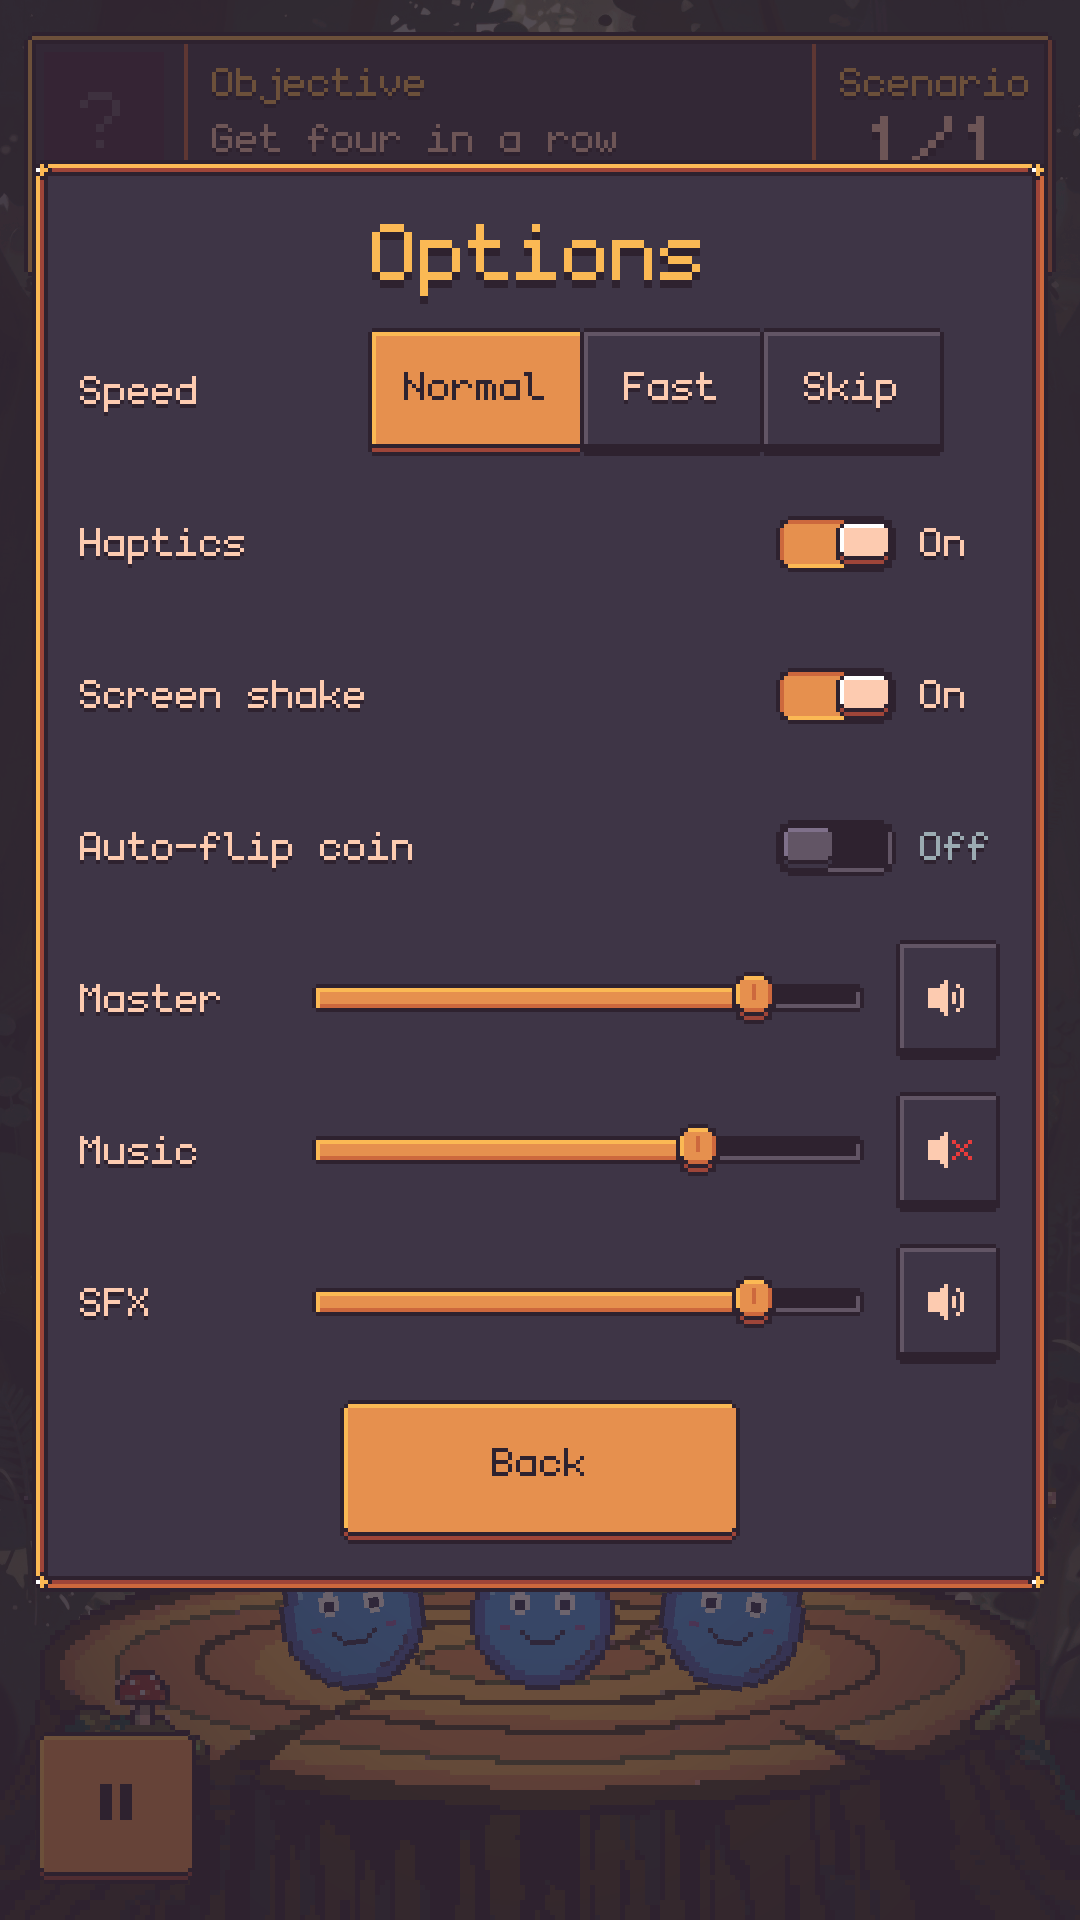
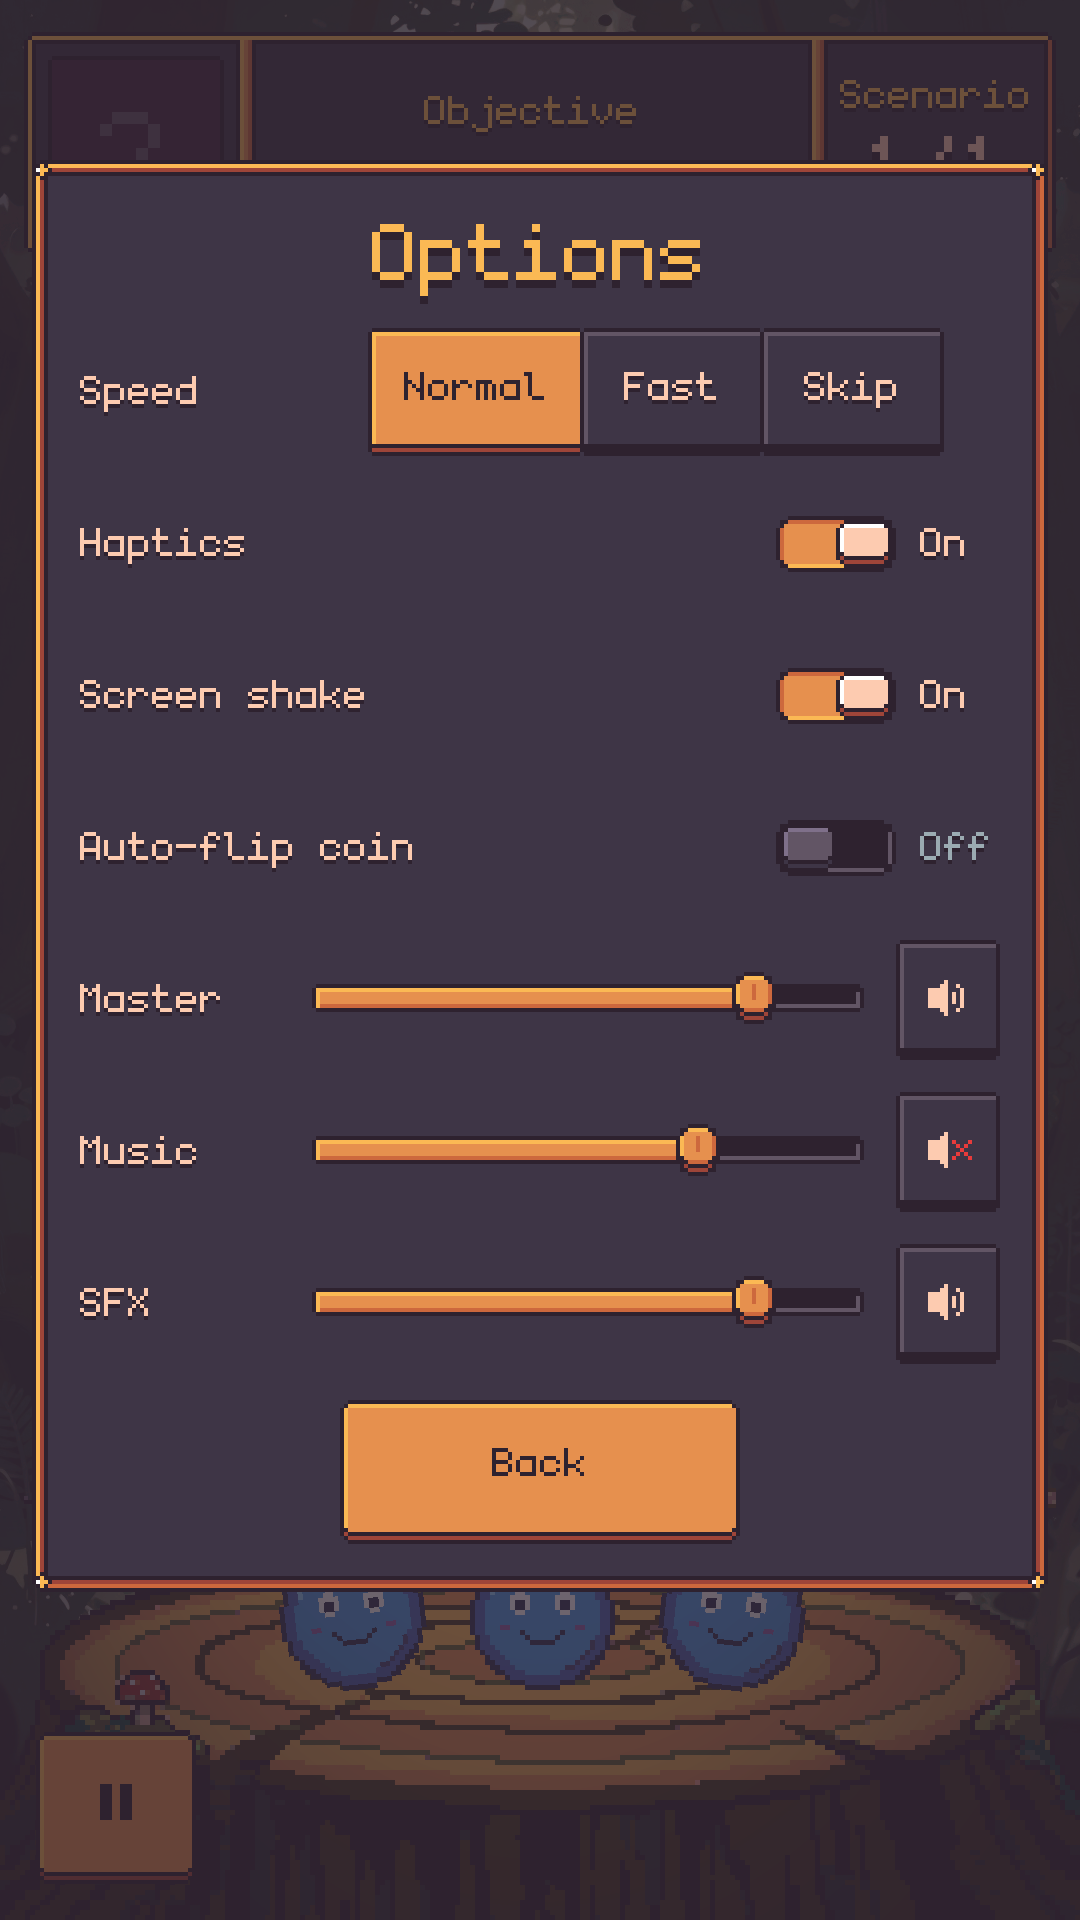
Art B: review round 2 - bigger portrait, centred objective, thick HUD bars, Forest timer emblem

diff --git a/art/ui/make_ui_mocks.py b/art/ui/make_ui_mocks.py
@@ -30,7 +30,7 @@ UI = {name: Image.open(f"assets/ui/{name}.png").convert("RGBA") for name in (
     "button_disabled", "toast", "banner", "slider_track", "slider_fill", "slider_knob",
     "toggle_on", "toggle_off", "segment_normal", "segment_selected", "icon_pause",
     "icon_speaker", "icon_speaker_muted", "logo", "fuse_rope", "fuse_burnt", "fuse_spark",
-    "toast_error", "icon_error", "divider_h", "divider_v")}
+    "toast_error", "icon_error", "divider_h", "divider_v", "timer_emblem_forest")}
 SCRIM = (*kit.INK0[:3], 178)
 
 
@@ -162,33 +162,42 @@ def draw_fuse(s, x, y, w, burnt):
 
 
 def hud(s, top=8, timer="24", timer_red=False):
-    """One HUD block with sections (Sean, 2026-11-20 review): portrait | objective |
-    scenario on top, the turn timer centred in the lower section. Pause is bottom left."""
-    x0, w = 6, GW - 12
-    top_h, low_h = 40, 22
-    s.panel("panel", x0, top, w, top_h + low_h)
+    """One HUD block with thick section bars (Sean, 2026-11-20 round 2): big portrait |
+    objective (centred) | scenario. The turn timer sits in a round biome emblem just
+    below the block. Pause is bottom left."""
+    x0, w, h = 6, GW - 12, 56
+    s.panel("panel", x0, top, w, h)
     # Portrait section (Strange Man head crop comes in Art pass C).
-    s.put(Image.new("RGBA", (30, 30), hexc("45293f")), x0 + 5, top + 5)
-    s.text("?", x0 + 20, top + 7, kit.INK2, 2, centre=True, shadow=False)
-    vx1, vx2 = x0 + 39, x0 + w - 62
+    ps = 44
+    s.put(kit.frame(ps, ps, [kit.INK0], hexc("45293f"), radius=1), x0 + 6, top + 6)
+    s.text("?", x0 + 6 + ps // 2, top + 6 + 2, kit.INK2, 3, centre=True, shadow=False)
+    vx1, vx2 = x0 + 6 + ps + 3, x0 + w - 62
     for vx in (vx1, vx2):
-        s.put(UI["divider_v"].resize((3, top_h - 6)), vx, top + 3)
-    s.put(UI["divider_h"].resize((w - 6, 3)), x0 + 3, top + top_h - 1)
-    # Objective section.
-    s.text("Objective", vx1 + 8, top + 5, kit.GOLD_HI)
-    s.text("Get four in a row", vx1 + 8, top + 19, kit.CREAM)
+        s.put(UI["divider_v"].resize((5, h - 4)), vx, top + 2)
+    # Objective section, centred.
+    ocx = (vx1 + 5 + vx2) // 2
+    s.text("Objective", ocx, top + 12, kit.GOLD_HI, centre=True)
+    s.text("Get four in a row", ocx, top + 28, kit.CREAM, centre=True)
     # Scenario section (where Pause was).
-    cx = (vx2 + 3 + x0 + w) // 2
-    s.text("Scenario", cx, top + 5, kit.GOLD_HI, centre=True)
-    s.text("1/1", cx, top + 13, kit.CREAM, 2, centre=True)
-    # Lower section: the turn timer, centred ("—" on the opponent's turn).
-    s.text(timer, GW // 2, top + top_h - 4, hexc("e83b3b") if timer_red else kit.CREAM, 2, centre=True)
+    cx = (vx2 + 5 + x0 + w - 3) // 2
+    s.text("Scenario", cx, top + 8, kit.GOLD_HI, centre=True)
+    s.text("1/1", cx, top + 18, kit.CREAM, 2, centre=True)
+    # Turn timer: round Forest emblem just below the HUD ("—" on the opponent's turn).
+    em = UI["timer_emblem_forest"]
+    ex, ey = (GW - em.width) // 2, top + h + 1
+    s.put(em, ex, ey)
+    colour = hexc("e83b3b") if timer_red else kit.CREAM
+    tw = int(FONT.getlength(timer)) * 2
+    tx, ty = GW // 2 - tw // 2, ey + em.height // 2 - 19
+    for dx, dy in ((-1, 0), (1, 0), (0, -1), (0, 1), (-1, -1), (1, -1), (-1, 1), (1, 1), (0, 2)):
+        s.put(text_img(timer, kit.INK0, 2), tx + dx, ty + dy)
+    s.put(text_img(timer, colour, 2), tx, ty)
     # Pause button, bottom left of the safe area (36 game px = 96 px at the 720 base).
     s.panel("button_normal", 9, GH - 9 - 38, 40, 38)
     s.put(UI["icon_pause"], 9 + 16, GH - 9 - 38 + 13)
 
 
-def error_toast(s, msg, y=100):
+def error_toast(s, msg, y=114):
     """Error toast: red pill + warning badge, above the aim lane."""
     w = int(FONT.getlength(msg)) + 32
     x = (GW - w) // 2

diff --git a/art/ui/make_ui_kit.py b/art/ui/make_ui_kit.py
@@ -13,7 +13,8 @@ Outputs in assets/ui/ (9-slice margins = the `MARGINS` table below, in game px):
   dialogue_arrow.png   blinking "next page" triangle
   button_normal.png    honey button with a 2 px lip; _pressed sinks 2 px; _disabled greyed
   toast.png            toast pill; toast_error.png + icon_error.png for errors (Column full, Hand full)
-  divider_h.png / divider_v.png  section lines inside the one-block HUD
+  divider_h.png / divider_v.png  thick section bars inside the one-block HUD
+  timer_emblem_forest.png  round biome emblem under the HUD that holds the turn timer
   banner.png           end-overlay frame (double border, gold studs)
   slider_track.png     slider groove; slider_fill.png the filled part; slider_knob.png
   toggle_on.png / toggle_off.png
@@ -202,12 +203,64 @@ def icon_error():
 
 
 def divider_h():
-    """Tileable horizontal section divider for the one-block HUD (4x3)."""
-    return bitmap(["....", "####", "...."], {"#": GOLD_LO})
+    """Tileable horizontal section bar for the one-block HUD (4x5): as thick as the
+    gap between two panels, gold centre joins the panel's gold ring (Sean, round 2)."""
+    return bitmap(["####", "hhhh", "gggg", "llll", "####"],
+                  {"#": INK0, "h": GOLD_HI, "g": GOLD, "l": GOLD_LO})
 
 
 def divider_v():
-    return bitmap([".#."] * 4, {"#": GOLD_LO})
+    return bitmap(["#hgl#"] * 4, {"#": INK0, "h": GOLD_HI, "g": GOLD, "l": GOLD_LO})
+
+
+def timer_emblem_forest():
+    """Forest turn-timer emblem (44x44): a log slice with tree rings, bark rim and two
+    oak leaves; the countdown sits in the middle (Sean, 2026-11-20 round 2)."""
+    import math
+    n = 44
+    img = Image.new("RGBA", (n, n), CLEAR)
+    px = img.load()
+    c = (n - 1) / 2
+    R = n / 2 - 0.4
+    bark, bark_hi = hexc("4c3e24"), hexc("966c6c")
+    for y in range(n):
+        for x in range(n):
+            dx, dy = x - c, y - c
+            r = math.hypot(dx, dy)
+            if r > R:
+                continue
+            if r > R - 1:
+                px[x, y] = INK0
+            elif r > R - 4:  # bark, rough flecks, lit top-left
+                lit = dx + dy < -6
+                fleck = (x * 7 + y * 3) % 5 == 0
+                px[x, y] = (bark_hi if fleck else GOLD_SH) if lit else (GOLD_SH if fleck else bark)
+            elif r > R - 5:
+                px[x, y] = INK0
+            else:  # wood face: rings every 4 px, lit inner edge top-left
+                ring = int(r + 0.5)
+                col = GOLD
+                if ring % 4 == 1 and ring > 1:
+                    col = GOLD_LO
+                elif ring % 4 == 2 and dx + dy < -3:
+                    col = GOLD_HI
+                if r < 1.5:
+                    col = GOLD_LO
+                px[x, y] = col
+    leaf = bitmap([
+        "......##....",
+        "....##aa#...",
+        "..##aaaab#..",
+        ".#aaaabbbb#.",
+        "#vvvvvvvvvv#",
+        ".#bbbbdddd#.",
+        "..##bbddd#..",
+        "....##dd#...",
+        "......##....",
+    ], {"#": INK0, "a": hexc("91db69"), "b": hexc("1ebc73"), "d": hexc("239063"), "v": hexc("165a4c")})
+    img.alpha_composite(leaf, (0, 2))
+    img.alpha_composite(leaf.transpose(Image.FLIP_LEFT_RIGHT), (n - 12, n - 13))
+    return img
 
 
 def banner(w=20, h=20):
@@ -498,6 +551,7 @@ def build():
         "icon_error": icon_error(),
         "divider_h": divider_h(),
         "divider_v": divider_v(),
+        "timer_emblem_forest": timer_emblem_forest(),
         "banner": banner(),
         "slider_track": slider_track(),
         "slider_fill": slider_fill(),

diff --git a/CLAUDE.md b/CLAUDE.md
@@ -132,7 +132,7 @@ Card text = immediate effect only. Random targets: game picks the target first, 
 - **Renderer: decided later** (after M7). Project uses **mobile** for now; only use effects that also work in **Compatibility** (no DoF, no CompositorEffects, no HDR 2D). Enable the shader baker at export.
 - **Gameplay input reads `InputEventScreenTouch` / `InputEventScreenDrag` only** (never also the emulated mouse events). Single pointer, no hover, no multitouch. Buttons use normal Control signals.
 - **Safe area:** full-screen background; HUD/board/hand inside a SafeArea MarginContainer from `DisplayServer.get_display_safe_area()`, reapplied on resize; debug toggle simulates phone insets (~110 px top, ~70 px bottom at 720 base). Nothing interactive in the bottom home-gesture strip; hand inset ≥ 24 px from side edges.
-- **Layout (top → bottom, 720 base; revised Sean 2026-11-11, HUD 2026-11-20):** board **vertically centred**. Above it the HUD, **one block with sections** (Sean 2026-11-20): top row opponent portrait (v0.1 opponent = **Strange Man**, head crop, no name) · "Objective" + per-scenario text ("Get four in a row") · **Scenario "1/1"** top right; lower section = **turn timer centred** (number from 30, red last 10 s, "—" on opponent's turn; no turn text in the HUD). **Pause** button at the **bottom left** of the safe area (Resume / Options / Quit; Sean 2026-11-13, replaces the HUD Quit button; pause stops timer, opponent and animations behind a scrim; Quit confirms "Quit this scenario?" → Title, not a loss); then aim lane 100 · board (no opponent hand zone). Below it a thin **turn-timer strip** (fuse, M6), then **only the player hand**: up to 5 Goobs in a shallow **fan** (tilted outward, no overlap, no slots, ≥ 96 px each), resting on the **biome's hand prop** (Forest: an oak stump, narrower than the screen; Sean 2026-11-19; the board stands on nothing and has no feet). **No deck piles or deck count** in v0.1. Drawn Goob pops in big at the centre ~0.7 s, then flies into the fan (M4). Coin result not shown in the scenario. Win/lose/draw = big flashy centred overlay (lead-in: winner's Goobs happy, loser's sad, winning four celebratory face; on a player win the opponent portrait shows "well played", then cracks and explodes; on his win it celebrates). End overlay copy: "You win!" / "You lose" + "Back to title"; "Draw" + "Replay". Opponent portrait expressions (Sean, 2026-11-13): idle, thinking (think delay), happy, angry, surprised (only chains and timeout rolls), celebrating, well played. Toasts: one at a time above the aim lane, ~1.2 s, readable on Skip; error toasts ("Column full", "Hand full") are a red pill with a "!" badge (Sean 2026-11-20). **UI pixel unit = one board game pixel** (panels, Monogram text, icons); layout on the 720 base. Full UI spec: vault slice §2B "UI grill (2026-11-13)". Turn banners: red "Opponent's turn", blue "Your turn" (no tint). **Touch-target floor 96 px**; board columns (≈ 85–92 px) accepted, recheck at the M3.6 playtest. HUD, hand and overlays stay crisp Controls on the 720 base.
+- **Layout (top → bottom, 720 base; revised Sean 2026-11-11, HUD 2026-11-20):** board **vertically centred**. Above it the HUD, **one block with sections** (Sean 2026-11-20): thick gold section bars; **big** opponent portrait (v0.1 opponent = **Strange Man**, head crop, no name) · "Objective" + per-scenario text ("Get four in a row"), **centred** · **Scenario "1/1"** top right. **Turn timer** just below the HUD, centred, in a **round biome emblem** (Forest: log slice with leaves; Sean 2026-11-20 round 2): number from 30, red last 10 s, "—" on opponent's turn; no turn text in the HUD. **Pause** button at the **bottom left** of the safe area (Resume / Options / Quit; Sean 2026-11-13, replaces the HUD Quit button; pause stops timer, opponent and animations behind a scrim; Quit confirms "Quit this scenario?" → Title, not a loss); then aim lane 100 · board (no opponent hand zone). Below it a thin **turn-timer strip** (fuse, M6), then **only the player hand**: up to 5 Goobs in a shallow **fan** (tilted outward, no overlap, no slots, ≥ 96 px each), resting on the **biome's hand prop** (Forest: an oak stump, narrower than the screen; Sean 2026-11-19; the board stands on nothing and has no feet). **No deck piles or deck count** in v0.1. Drawn Goob pops in big at the centre ~0.7 s, then flies into the fan (M4). Coin result not shown in the scenario. Win/lose/draw = big flashy centred overlay (lead-in: winner's Goobs happy, loser's sad, winning four celebratory face; on a player win the opponent portrait shows "well played", then cracks and explodes; on his win it celebrates). End overlay copy: "You win!" / "You lose" + "Back to title"; "Draw" + "Replay". Opponent portrait expressions (Sean, 2026-11-13): idle, thinking (think delay), happy, angry, surprised (only chains and timeout rolls), celebrating, well played. Toasts: one at a time above the aim lane, ~1.2 s, readable on Skip; error toasts ("Column full", "Hand full") are a red pill with a "!" badge (Sean 2026-11-20). **UI pixel unit = one board game pixel** (panels, Monogram text, icons); layout on the 720 base. Full UI spec: vault slice §2B "UI grill (2026-11-13)". Turn banners: red "Opponent's turn", blue "Your turn" (no tint). **Touch-target floor 96 px**; board columns (≈ 85–92 px) accepted, recheck at the M3.6 playtest. HUD, hand and overlays stay crisp Controls on the 720 base.
 - **Column touch (M3.5, Sean 2026-11-10):** touch down on a legal column = **blue flash** over column + aim lane, and **your Goob floats on top of the board over that column** (gentle bob; Sean, 2026-11-13; also during the timeout reveal); flash and Goob stay while held and follow the finger; **release over a column = drop**, release outside board = cancel (quick tap drops at once). Touching/sliding onto a full column = shake + error SFX + toast **once per entry**, no flash; releasing there = neutral. Input locked from release until the drop finishes.
 - **Playing a Goob (M4):** drag (lift > ~12 px, ghost over the column under the finger, **release over board = drop, release outside = cancel**, Goob flies back to hand; **nothing dims**, same blue column flash as M3.5) or tap (tap Goob to select, tap column to aim, **tap same column again = drop**). From M4 a quick tap on a column only aims; hold > ~0.25 s or slide, then release over a column still drops (Sean, 2026-11-11). **No undo.** **M4 open rules (Sean, 2026-11-13):** a column touch with no hand Goob selected is ignored; at timeout the selected/dragged Goob plays, else a random hand Goob; until M6 the opponent plays a random Goob from its hand. Column hit area = full column height + aim lane. Full column greyed while aiming. **Double tap = inspect** (name + card text; closes on next tap; Sean 2026-11-10, was long-press): always on hand Goobs, on board Goobs only when no hand Goob is selected. Input locked during the opponent's turn and animations.
 - **Inspect panel (Sean, 2026-11-13):** Goob big on the left; right: name (Monogram 2×, accent colour), effect centred; flavour text (Monogram italic) across the full width at the bottom; board dimmed; next tap closes. Vanilla: name + flavour only. M4 uses a placeholder flavour line. **Hand:** tap lifts the Goob in place, hold makes it follow the finger; giggle face in both.
@@ -275,7 +275,7 @@ Full plan + gap table: vault `Design/Roadmap v0.1 - remaining art and code.md`. 
 - [ ] 9-slice pixel panels (dark ink + warm accent, board pixel unit, Resurrect 64): HUD panel, dialogue box (chunky border + ▼), button states, toast pill, inspect panel, end-banner frame, pause/options panel, scrim
 - [ ] Options widgets (slider + knob, On/Off toggle, Normal/Fast/Skip segmented control, speaker/muted icons), pause icon
 - [ ] Pixel logo "Four in a Rogue"; fuse strip (rope + burning spark, 24 px); subtle vignette
-- [ ] **Approval:** one mock set (title, HUD top bar, Strange Man dialogue box, pause + Options, vignette on), then final assets. Round 1 reviewed 2026-11-20 (branch `art-b-ui-kit`): logo, dialogue UI, pause, Options approved; title bg, HUD block, error toast, pause position revised
+- [ ] **Approval:** one mock set (title, HUD top bar, Strange Man dialogue box, pause + Options, vignette on), then final assets. Round 1 reviewed 2026-11-20 (branch `art-b-ui-kit`): logo, dialogue UI, pause, Options approved; title bg, HUD block, error toast, pause position revised; round 2: everything OK except the HUD (bigger portrait, centred objective, thick bars, timer in a Forest emblem below the HUD)
 
 ### Art pass C — the Strange Man
 
